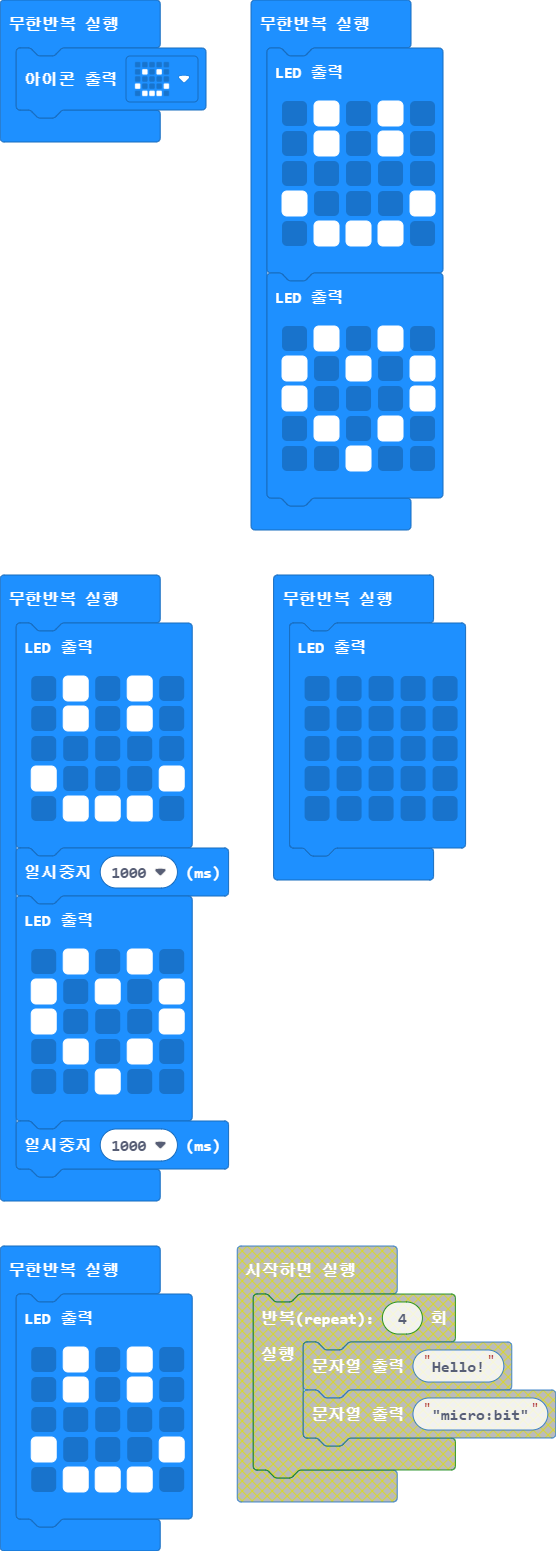
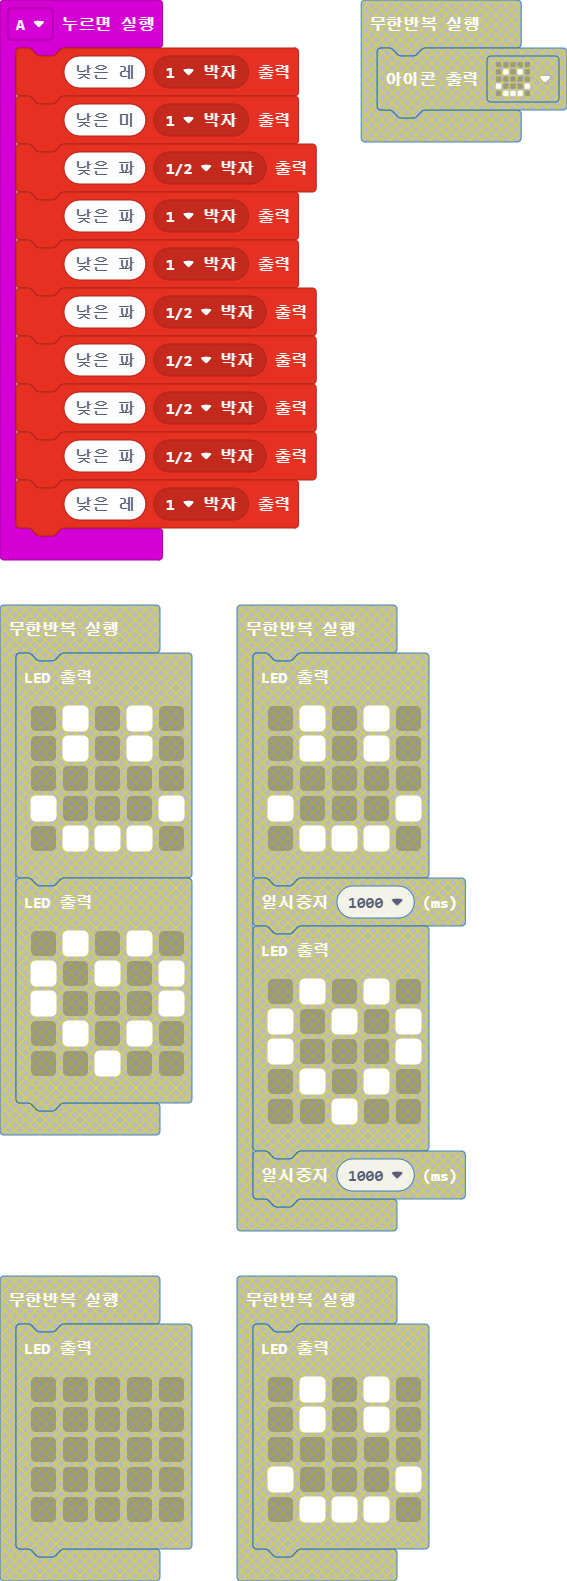
pxt.json, main.blocks, main.ts 업데이트하기

diff --git a/main.ts b/main.ts
@@ -1,55 +1,12 @@
-basic.forever(function () {
-    basic.showIcon(IconNames.Happy)
-})
-basic.forever(function () {
-    basic.showLeds(`
-        . # . # .
-        . # . # .
-        . . . . .
-        # . . . #
-        . # # # .
-        `)
-    basic.showLeds(`
-        . # . # .
-        # . # . #
-        # . . . #
-        . # . # .
-        . . # . .
-        `)
-})
-basic.forever(function () {
-    basic.showLeds(`
-        . # . # .
-        . # . # .
-        . . . . .
-        # . . . #
-        . # # # .
-        `)
-    basic.pause(1000)
-    basic.showLeds(`
-        . # . # .
-        # . # . #
-        # . . . #
-        . # . # .
-        . . # . .
-        `)
-    basic.pause(1000)
-})
-basic.forever(function () {
-    basic.showLeds(`
-        . . . . .
-        . . . . .
-        . . . . .
-        . . . . .
-        . . . . .
-        `)
-})
-basic.forever(function () {
-    basic.showLeds(`
-        . # . # .
-        . # . # .
-        . . . . .
-        # . . . #
-        . # # # .
-        `)
+input.onButtonPressed(Button.A, function () {
+    music.playTone(147, music.beat(BeatFraction.Whole))
+    music.playTone(165, music.beat(BeatFraction.Whole))
+    music.playTone(175, music.beat(BeatFraction.Half))
+    music.playTone(175, music.beat(BeatFraction.Whole))
+    music.playTone(175, music.beat(BeatFraction.Whole))
+    music.playTone(175, music.beat(BeatFraction.Half))
+    music.playTone(175, music.beat(BeatFraction.Half))
+    music.playTone(175, music.beat(BeatFraction.Half))
+    music.playTone(175, music.beat(BeatFraction.Half))
+    music.playTone(147, music.beat(BeatFraction.Whole))
 })
